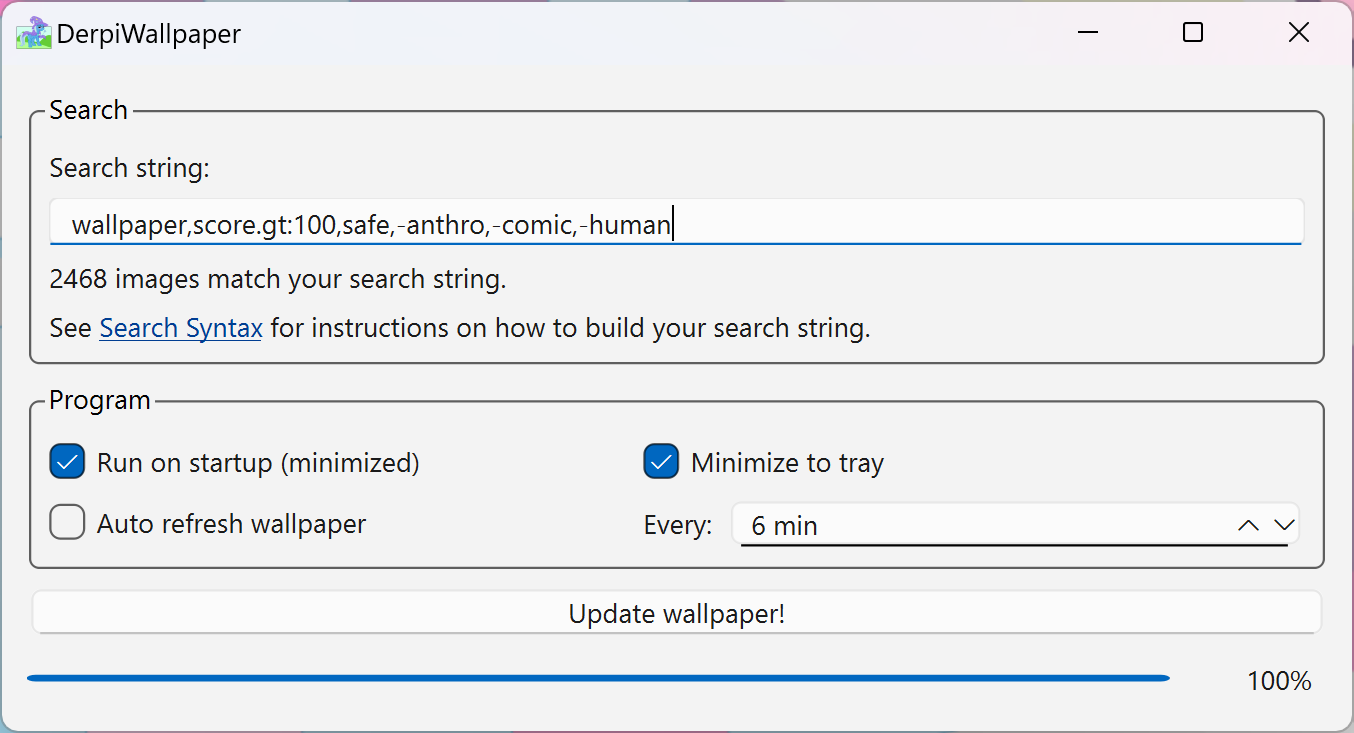
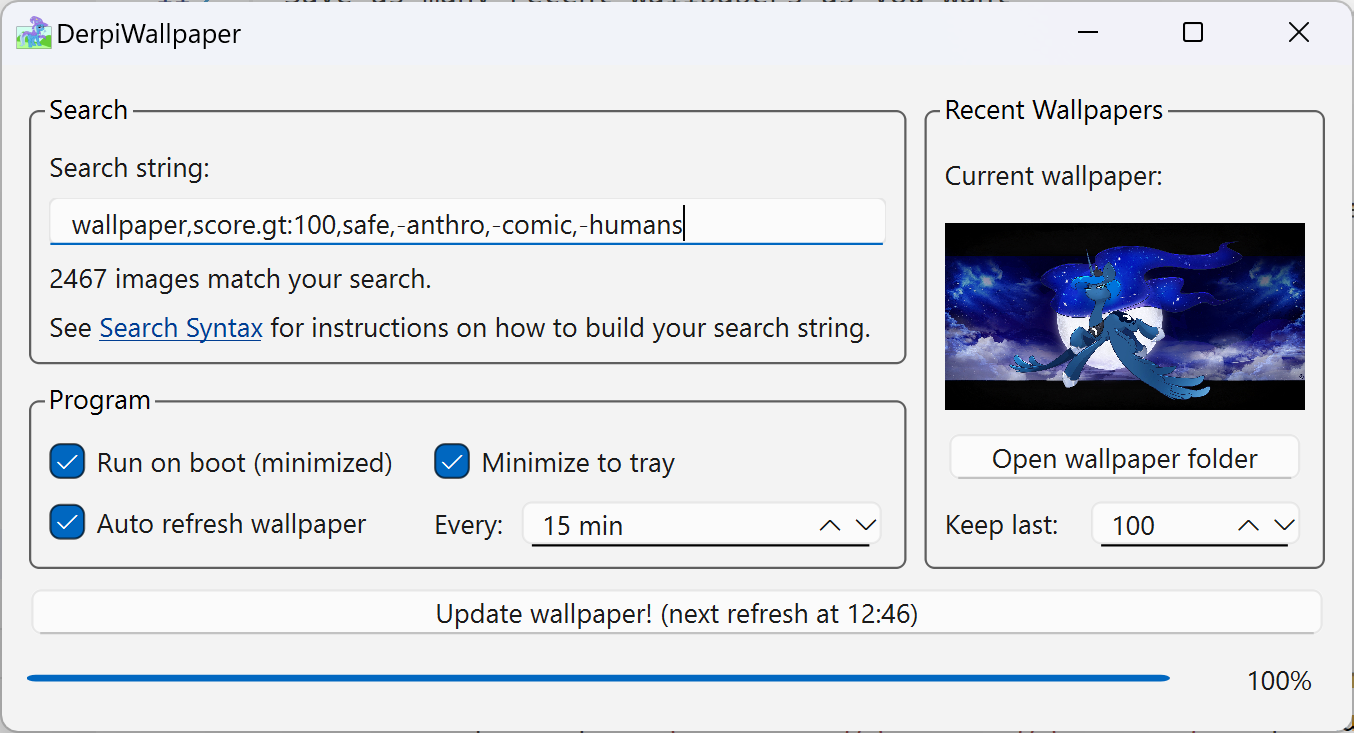
Implement preview Update docs

diff --git a/derpiwallpaper/ui.py b/derpiwallpaper/ui.py
@@ -3,9 +3,9 @@
 from datetime import datetime
 from pathlib import Path
 from PySide6.QtCore import Qt, QEvent, SignalInstance, Slot, Signal, QUrl
-from PySide6.QtGui import QIcon, QAction
+from PySide6.QtGui import QIcon, QAction, QGuiApplication
 from PySide6.QtWidgets import QGridLayout, QLabel, QLineEdit, QProgressBar, QPushButton, QWidget, QGroupBox, QCheckBox, QSpinBox, QSystemTrayIcon, QMenu, QMainWindow, QApplication, QMessageBox
-from PySide6.QtGui import QDesktopServices
+from PySide6.QtGui import QDesktopServices, QPixmap, QPainter
 from derpiwallpaper.autostart import is_run_on_startup, run_on_startup
 from derpiwallpaper.config import CONFIG
 from derpiwallpaper.workers import WorkerManager, wman
@@ -69,10 +69,11 @@ class DerpiWallpaperUI(QWidget):
         self.wman = wman()
 
         layout = QGridLayout(self)
-        layout.addWidget(self.create_search_options_widget(), 0, 0, 1, 4)
-        layout.addWidget(self.create_program_options_widget(), 1, 0, 1, 4)
+        layout.addWidget(self.create_search_options_widget(), 0, 0)
+        layout.addWidget(self.create_program_options_widget(), 1, 0)
+        layout.addWidget(self.create_recent_wallpapers_widget(), 0, 1, 2, 1)
         layout.setRowStretch(5, 1)
-        layout.addLayout(self.create_update_widget(), 6, 0, 1, 4)
+        layout.addLayout(self.create_update_widget(), 6, 0, 1, 2)
 
         #envvars = QTextBrowser()
         #envvars.setText('\n'.join(f'{k} = {v}' for k, v in os.environ.items()))
@@ -94,7 +95,7 @@ class DerpiWallpaperUI(QWidget):
             restore_action = QAction("Restore", self)
             restore_action.triggered.connect(self.show_and_raise)
             refresh_action = QAction("Refresh wallpaper", self)
-            refresh_action.triggered.connect(self.update_wp)
+            refresh_action.triggered.connect(self.refresh_wp)
 
 
             exit_action = QAction("Exit", self)
@@ -157,6 +158,7 @@ class DerpiWallpaperUI(QWidget):
 
             search_results.setStyleSheet(style)
             search_results.setText(results_text)
+        update_search_options_widget()
         self.wman.search.update_ui.connect(update_search_options_widget)
 
         # Layout
@@ -187,7 +189,7 @@ class DerpiWallpaperUI(QWidget):
         auto_refresh_checkbox.setChecked(CONFIG.enable_auto_refresh)
         def toggle_auto_refresh(enabled: bool):
             CONFIG.enable_auto_refresh = enabled
-            self.wman.wp_updater.schedule_refresh(datetime.now() if enabled else None)
+            self.wman.wp_updater.clear_refresh()
         auto_refresh_checkbox.toggled.connect(toggle_auto_refresh)
 
         auto_refresh_interval_label = QLabel("Every:")
@@ -198,7 +200,6 @@ class DerpiWallpaperUI(QWidget):
         auto_refresh_interval.setSuffix(" min")
         def set_auto_refresh_interval(interval_mins: int):
             CONFIG.auto_refresh_interval_seconds = interval_mins*60
-            self.wman.wp_updater.schedule_refresh(datetime.now())
         auto_refresh_interval.valueChanged.connect(set_auto_refresh_interval)
         auto_refresh_checkbox.toggled.connect(toggle_auto_refresh)
 
@@ -215,12 +216,52 @@ class DerpiWallpaperUI(QWidget):
 
         return widget
 
-    def update_wp(self):
+    def create_recent_wallpapers_widget(self):
+        wallpapers_to_keep_label = QLabel("Keep last:")
+        wallpapers_to_keep = QSpinBox()
+        wallpapers_to_keep.setMinimum(1)
+        wallpapers_to_keep.setMaximum(999999)
+        wallpapers_to_keep.setValue(CONFIG.wallpapers_to_keep)
+        def set_wallpapers_to_keep(number: int):
+            CONFIG.wallpapers_to_keep = number
+            self.wman.cleanup.schedule_cleanup()
+        wallpapers_to_keep.valueChanged.connect(set_wallpapers_to_keep)
+
+        current_wallpaper_label = QLabel("Current wallpaper:")
+        current_wallpaper_image = QLabel()
+        current_wallpaper_image.setFixedSize(160, 90)
+        current_wallpaper_image.setAlignment(Qt.AlignmentFlag.AlignCenter)
+        def update_current_wallpaper():
+            hidpi_factor = QGuiApplication.primaryScreen().devicePixelRatio()
+            pixmap = QPixmap(CONFIG.current_wallpaper_path).scaled(int(160*hidpi_factor), int(90*hidpi_factor), Qt.AspectRatioMode.KeepAspectRatio)
+            pixmap.setDevicePixelRatio(hidpi_factor)
+            current_wallpaper_image.setPixmap(pixmap)
+        update_current_wallpaper()
+        self.wman.wp_updater.update_ui.connect(update_current_wallpaper)
+
+        open_wallpaper_folder_button = QPushButton("Open wallpaper folder")
+        open_wallpaper_folder_button.clicked.connect(lambda: QDesktopServices.openUrl(QUrl.fromLocalFile(str(CONFIG.wallpaper_folder))))
+
+        # Layout
+        widget = QGroupBox("Recent Wallpapers")
+        layout = QGridLayout(widget)
+
+        # Add elements to layout
+        layout.addWidget(current_wallpaper_label,     0, 0, 1, 2)
+        layout.addWidget(current_wallpaper_image,     1, 0, 1, 2)
+        layout.addWidget(open_wallpaper_folder_button, 2, 0, 1, 2)
+        layout.addWidget(wallpapers_to_keep_label, 3, 0)
+        layout.addWidget(wallpapers_to_keep,       3, 1)
+
+        return widget
+
+
+    def refresh_wp(self):
         self.wman.wp_updater.schedule_refresh(datetime.now(), update_ui=False)
 
     def create_update_widget(self):
         update_wallpaper_button = QPushButton("Update wallpaper!")
-        update_wallpaper_button.released.connect(self.update_wp)
+        update_wallpaper_button.clicked.connect(self.refresh_wp)
         update_progress_bar = QProgressBar()
         update_progress_bar.setMaximum(self.wman.wp_updater.max_steps)
         update_error_label = QLabel("blub")
@@ -256,7 +297,7 @@ class DerpiWallpaperUI(QWidget):
                 update_error_label.setText(temp_err)
             else:
                 update_error_label.hide()
-
+        update_update_widget()
         self.wman.wp_updater.update_ui.connect(update_update_widget)
         self.wman.search.update_ui.connect(update_update_widget)
 

diff --git a/derpiwallpaper/workers/wallpaper_updater.py b/derpiwallpaper/workers/wallpaper_updater.py
@@ -15,19 +15,22 @@ class WallpaperUpdaterWorker(WorkerThread):
     max_steps = 4
     temporary_error: str | None = None
 
-    _images_url: str
-    _next_refresh_time: datetime | None
+    _images_url: str = CONFIG.derpibooru_json_api_url + "search/images"
+    _next_refresh_time: datetime | None = None
 
     def __init__(self):
         super().__init__()
-        self._images_url = CONFIG.derpibooru_json_api_url + "search/images"
-        self.schedule_refresh(datetime.now())
 
     def set_progress(self, progress: int):
         self.progress = progress
         self.update_ui.emit()
 
     def on_tick(self) -> None:
+        # Schedule refresh if auto-refresh is enabled and no refresh is scheduled in the configured interval
+        if CONFIG.enable_auto_refresh == True:
+            if not self._next_refresh_time or (self._next_refresh_time - datetime.now()).total_seconds() > CONFIG.auto_refresh_interval_seconds:
+                self.schedule_refresh(datetime.now() + timedelta(seconds=CONFIG.auto_refresh_interval_seconds))
+
         if self._next_refresh_time and datetime.now() >= self._next_refresh_time:
             self._refresh_wallpaper()
 
@@ -35,6 +38,12 @@ class WallpaperUpdaterWorker(WorkerThread):
         self._next_refresh_time = time
         if update_ui:
             self.update_ui.emit()
+
+    def clear_refresh(self, update_ui = True):
+        self._next_refresh_time = None
+        if update_ui:
+            self.update_ui.emit()
+
 
     def get_next_refresh_time(self):
         return self._next_refresh_time
@@ -76,8 +85,7 @@ class WallpaperUpdaterWorker(WorkerThread):
                 image_url = random_image['view_url']
 
                 # Download the image
-                image_path = get_user_images_folder() / "DerpiWallpaper" / f"{random_image['id']}.png"
-                image_path.parent.mkdir(parents=True, exist_ok = True)
+                image_path = CONFIG.wallpaper_folder / f"derpibooru_{random_image['id']}.png"
                 with open(image_path, 'wb') as file:
                     file.write(requests.get(image_url).content)
                     self.set_progress(3)

diff --git a/derpiwallpaper/workers/cleanup.py b/derpiwallpaper/workers/cleanup.py
@@ -1,0 +1,35 @@
+from  __future__ import annotations
+from datetime import datetime, timedelta
+
+from derpiwallpaper.config import CLEANUP_INTERVAL, CONFIG
+from derpiwallpaper.workers import WorkerThread
+
+class WallpaperCleanupWorker(WorkerThread):
+
+    _next_cleanup_time: datetime | None = None
+
+    def on_tick(self) -> None:
+        # Schedule cleanup
+        if not self._next_cleanup_time or (self._next_cleanup_time - datetime.now()).total_seconds() > CLEANUP_INTERVAL:
+            self.schedule_cleanup()
+
+        if self._next_cleanup_time and datetime.now() >= self._next_cleanup_time:
+            self._perform_cleanup()
+
+    def schedule_cleanup(self):
+        self._next_cleanup_time = datetime.now() + timedelta(seconds=CLEANUP_INTERVAL)
+
+    def _perform_cleanup(self):
+        # Scan folder for "derpibooru_" prefixed files
+        files = [f for f in CONFIG.wallpaper_folder.glob("derpibooru_*") if f.is_file()]
+
+        # Sort files by modification time (most recent last)
+        files.sort(key=lambda f: f.stat().st_mtime)
+
+        # Check if we have more files than we want to keep
+        if len(files) > CONFIG.wallpapers_to_keep:
+            files_to_delete = files[:-CONFIG.wallpapers_to_keep]  # All but the most recent ones
+
+            for file in files_to_delete:
+                file.unlink()  # Delete file
+            print(f'Cleaned up {len(files_to_delete)} old wallpapers.')

diff --git a/derpiwallpaper/workers/__init__.py b/derpiwallpaper/workers/__init__.py
@@ -3,6 +3,7 @@ from __future__ import annotations
 from PySide6.QtCore import QThread, Signal, SignalInstance, QObject
 
 
+
 def wman() -> WorkerManager:
     assert _WMAN, 'Worker manager must be running when calling wman()'
     return _WMAN
@@ -37,6 +38,7 @@ class WorkerThread(QThread):
 
 from derpiwallpaper.workers.search import SearchWorker
 from derpiwallpaper.workers.wallpaper_updater import WallpaperUpdaterWorker
+from derpiwallpaper.workers.cleanup import WallpaperCleanupWorker
 
 _WMAN: WorkerManager | None = None
 
@@ -56,13 +58,17 @@ class WorkerManager(QObject):
         self.search.on_error.connect(self.on_error.emit)
         self.wp_updater = WallpaperUpdaterWorker()
         self.wp_updater.on_error.connect(self.on_error.emit)
+        self.cleanup = WallpaperCleanupWorker()
+        self.cleanup.on_error.connect(self.on_error.emit)
 
         self.search.start()
         self.wp_updater.start()
+        self.cleanup.start()
 
     def stop(self):
         global _WMAN
 
+        self.cleanup.stop()
         self.wp_updater.stop()
         self.search.stop()
 

diff --git a/derpiwallpaper/config.py b/derpiwallpaper/config.py
@@ -1,8 +1,8 @@
 from configparser import ConfigParser
 from pathlib import Path
-from typing import Any, TypedDict
 from appdirs import user_config_dir
-from configobj import ConfigObj
+
+from derpiwallpaper.utils import get_user_images_folder
 
 class DerpiWallpaperConfig:
     # Default configuration settings as class attributes
@@ -12,6 +12,9 @@ class DerpiWallpaperConfig:
     enable_auto_refresh: bool = False
     minimize_to_tray: bool = True
     auto_refresh_interval_seconds: int = 360
+    current_wallpaper_path: str = ""
+    wallpapers_to_keep: int = 100
+    wallpaper_folder: Path = get_user_images_folder() / "DerpiWallpaper"
 
     @property
     def appdir(self) -> Path:
@@ -68,8 +71,9 @@ class DerpiWallpaperConfig:
         with open(self.config_path, "w") as configfile:
             self.config.write(configfile)
 
-
 # Create config instance
 CONFIG = DerpiWallpaperConfig()
+CLEANUP_INTERVAL = 60  # Intentionally hardcoded to avoid accidental cleanup
 
-
+# Create wallpaper folder
+CONFIG.wallpaper_folder.mkdir(parents=True, exist_ok = True)

diff --git a/derpiwallpaper/utils/set_wallpaper.py b/derpiwallpaper/utils/set_wallpaper.py
@@ -3,6 +3,8 @@ import platform
 import subprocess
 from pathlib import Path
 
+from derpiwallpaper.config import CONFIG
+
 def set_wallpaper(image_path: str | Path):
     """
     Sets the desktop wallpaper across platforms.
@@ -58,3 +60,6 @@ def set_wallpaper(image_path: str | Path):
             pass
     else:
         print("Unsupported operating system for setting wallpaper.")
+        return
+
+    CONFIG.current_wallpaper_path = str(image_path)

diff --git a/README.md b/README.md
@@ -5,9 +5,10 @@ A tiny Qt application to your wallpaper to a random derpibooru.org image matchin
 
 Features:
 - No installation required
-- Cross platform (tested on Windows and Linux (KDE))
+- Cross platform (tested on Windows, GNOME & KDE)
 - Fully customizable via official Derpibooru [search syntax](https://derpibooru.org/pages/search_syntax)
-- Auto refresh
+- Configurable Auto refresh
+- Save as many recent wallpapers as you want
 - Small memory footprint (<50MB)
 
 ## How to use
